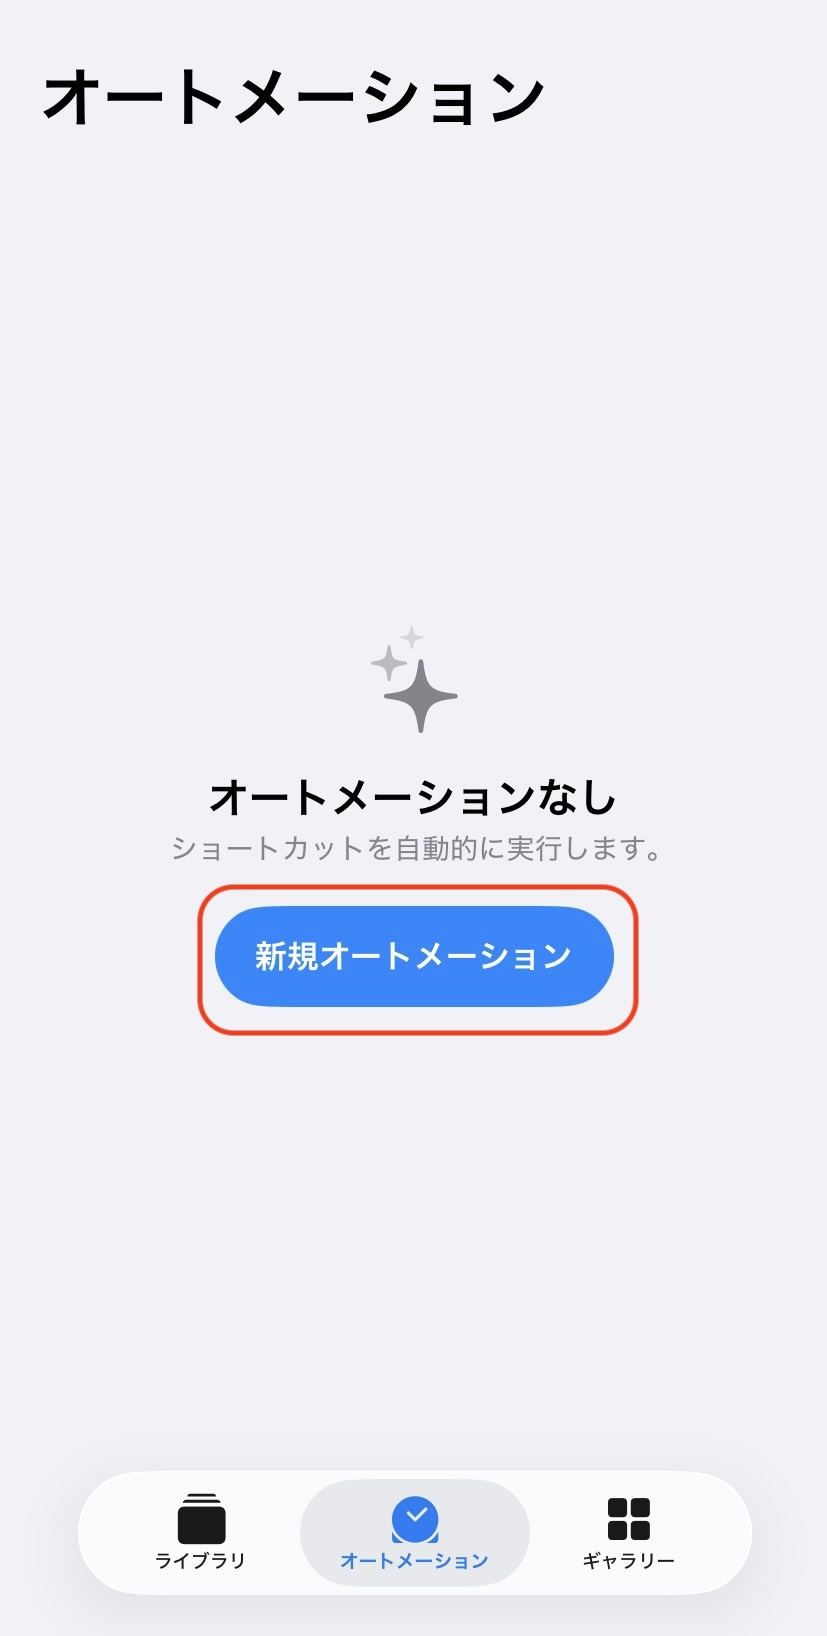
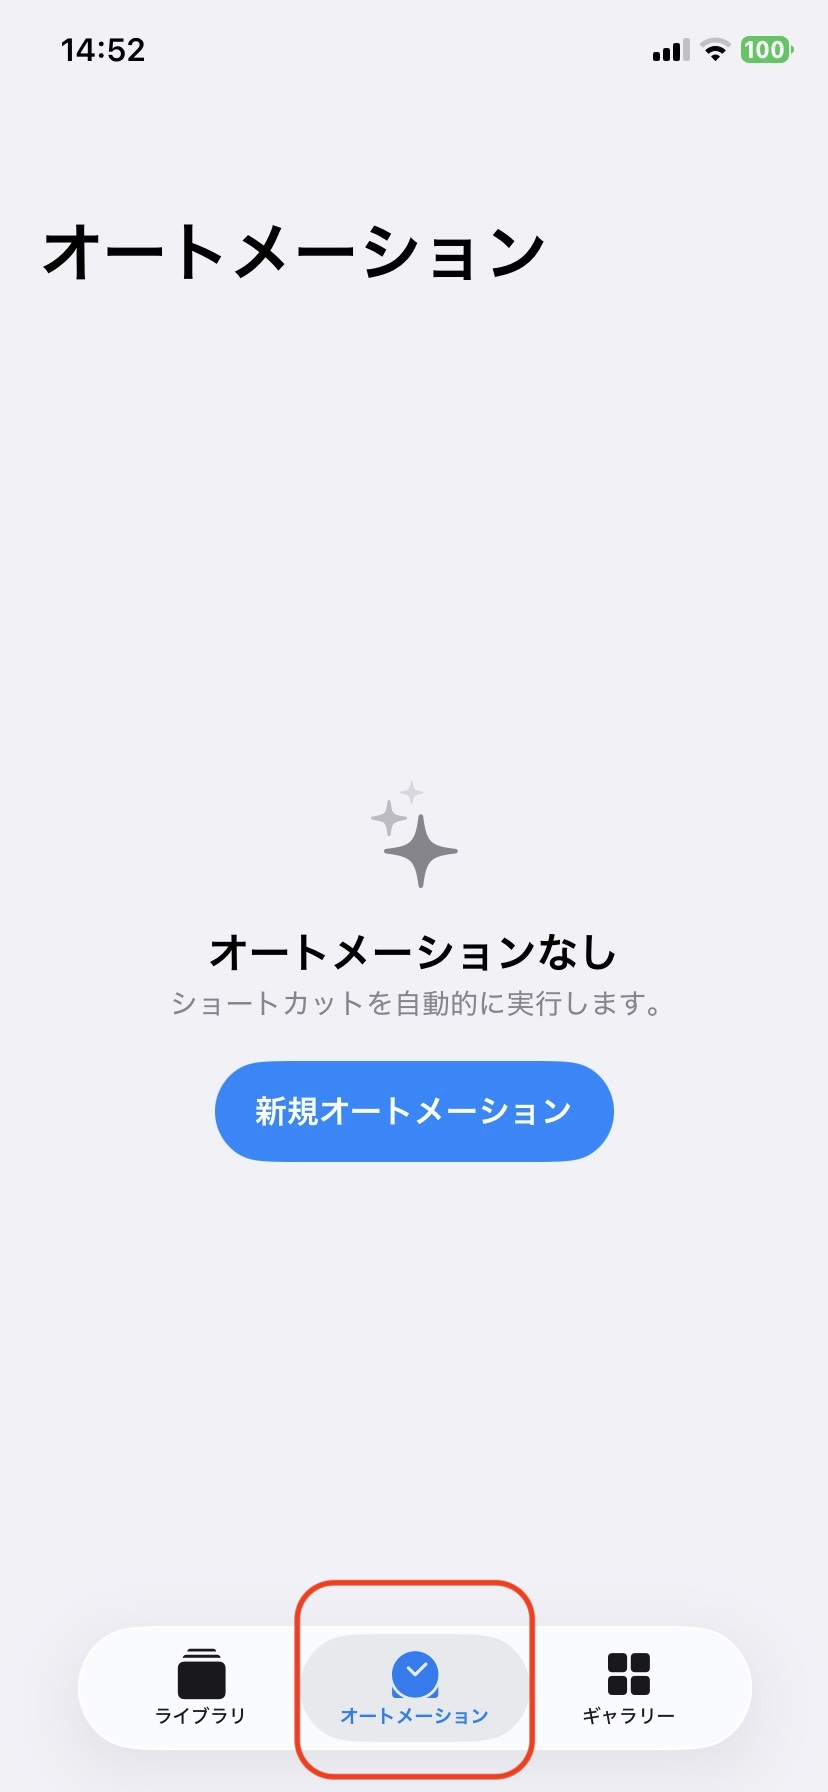
画像サイズ変更

diff --git a/src/screens/OnboardingScreen.tsx b/src/screens/OnboardingScreen.tsx
@@ -405,7 +405,7 @@ const styles = StyleSheet.create({
   guideCarousel: { width: '100%' },
   guideSlide: { paddingHorizontal: 4 },
   guideStepBadge: {
-    alignSelf: 'flex-start',
+    alignSelf: 'center',
     backgroundColor: 'rgba(120, 200, 160, 0.15)',
     borderRadius: 999,
     paddingHorizontal: 10,
@@ -414,17 +414,18 @@ const styles = StyleSheet.create({
   },
   guideStepBadgeText: { color: colors.l1, fontSize: 11, fontWeight: '700', letterSpacing: 0.5 },
   guideImageFrame: {
-    width: '100%',
+    width: '74%',
+    alignSelf: 'center',
     aspectRatio: 9 / 19.5,
-    borderRadius: 20,
+    borderRadius: 18,
     overflow: 'hidden',
     borderWidth: 1,
     borderColor: colors.hairline,
     backgroundColor: '#12161C',
     shadowColor: '#000',
     shadowOpacity: 0.3,
-    shadowRadius: 14,
-    shadowOffset: { width: 0, height: 8 },
+    shadowRadius: 12,
+    shadowOffset: { width: 0, height: 6 },
     elevation: 5,
     marginBottom: 10,
   },
